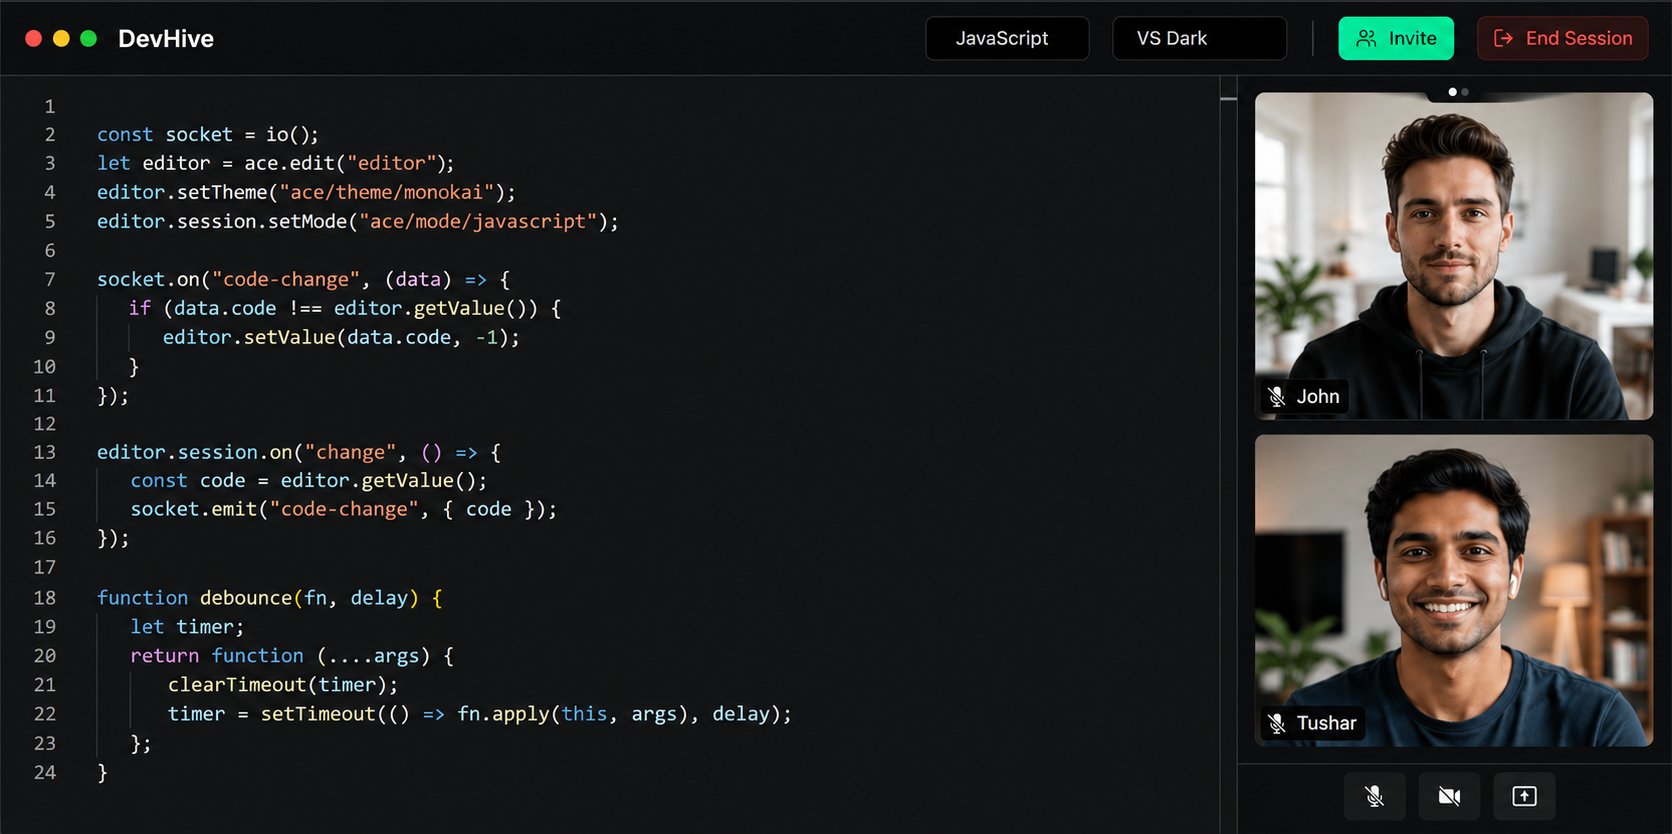
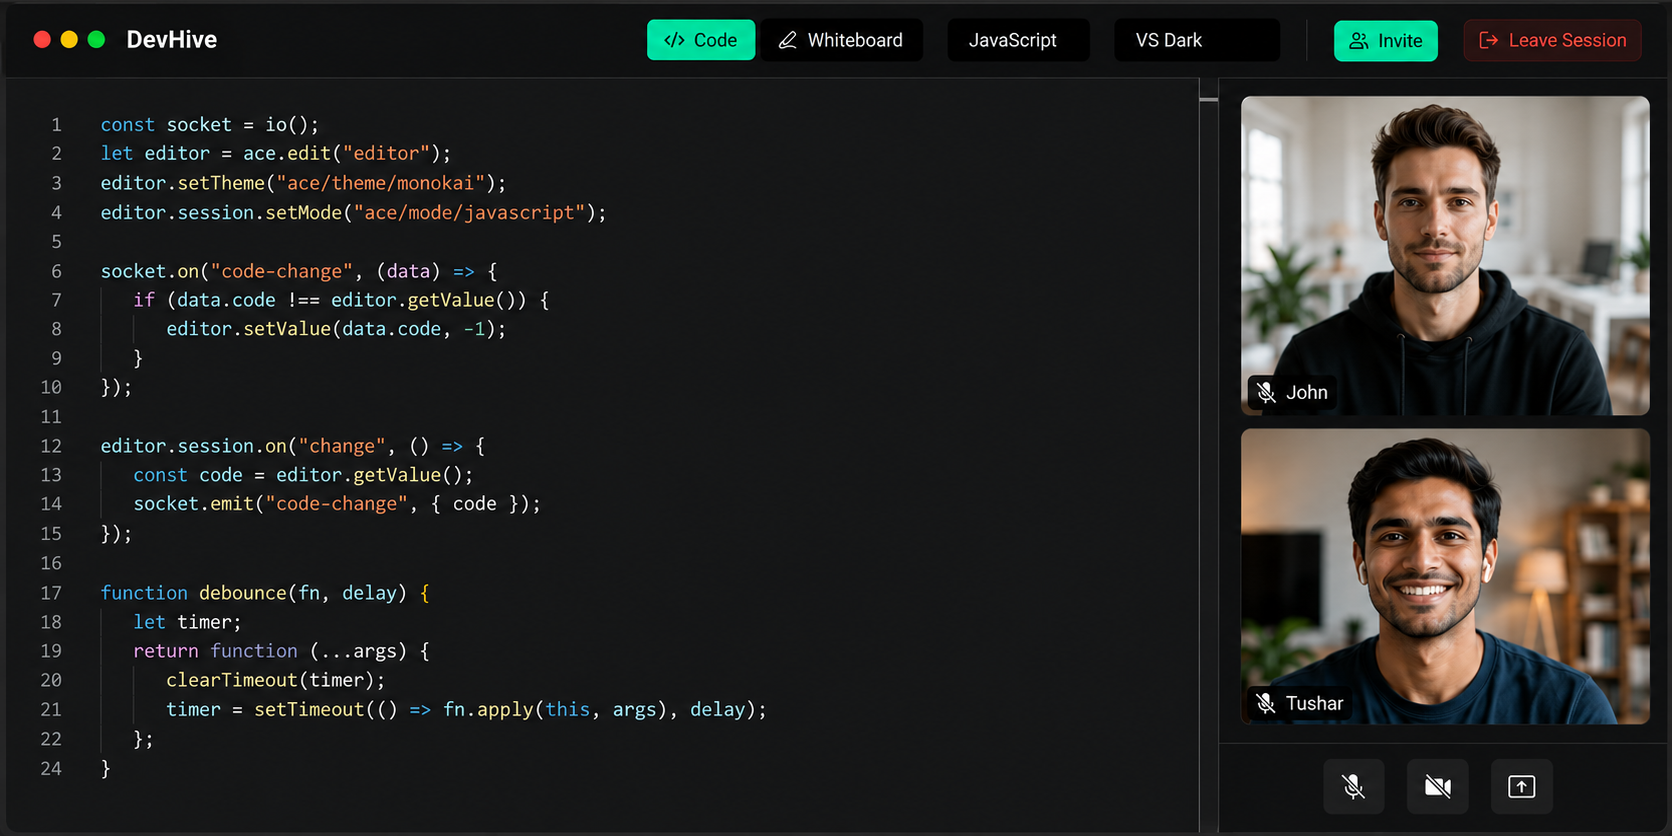
docs : update the landing page description

diff --git a/Client/src/page/room-page.jsx b/Client/src/page/room-page.jsx
@@ -25,10 +25,14 @@ const RoomPage = () => {
     const [inCall, setInCall] = useState(false);
     const justStartedVc = useRef(false);
     const [viewMode, setViewMode] = useState("code"); // "code" | "whiteboard"
-const [whiteboardElements, setWhiteboardElements] = useState([]);
-const excalidrawAPIRef = useRef(null);
-const isRemoteWhiteboardUpdate = useRef(false);
-const wbDebounceRef = useRef(null);
+    const [whiteboardElements, setWhiteboardElements] = useState([]);
+    const excalidrawAPIRef = useRef(null);
+    const wbDebounceRef = useRef(null);
+    // tracks the exact JSON string of the last whiteboard payload WE sent —
+    // lets us recognize the server broadcasting our own update back to us
+    // (STOMP's simple broker doesn't exclude the sender) and drop it before
+    // it ever reaches state, instead of relying on timing-based flags.
+    const lastSentWhiteboardRef = useRef("");
 
 
     const {roomId } = useParams()
@@ -98,9 +102,13 @@ const wbDebounceRef = useRef(null);
         setCode(data.code);
     }
     else if (data.message === "WB_UPDATE") {
-  isRemoteWhiteboardUpdate.current = true;
-  setWhiteboardElements(JSON.parse(data.elements));
-}
+      // if this is exactly what we just sent, it's our own broadcast
+      // echoing back — ignore it, don't touch state, don't re-apply it
+      if (data.elements === lastSentWhiteboardRef.current) {
+        return;
+      }
+      setWhiteboardElements(JSON.parse(data.elements));
+    }
     else if(data.message =="LANG_UPDATE"){
       
       isRemoteLanguageUpdate.current=true;
@@ -139,12 +147,14 @@ const wbDebounceRef = useRef(null);
   };
 
   const handleWhiteboardChange = (newElements) => {
-  setWhiteboardElements(newElements);
-  clearTimeout(wbDebounceRef.current);
-  wbDebounceRef.current = setTimeout(() => {
-    sendWhiteboardUpdate(roomId, newElements);
-  }, 300);
-};
+    setWhiteboardElements(newElements);
+    clearTimeout(wbDebounceRef.current);
+    wbDebounceRef.current = setTimeout(() => {
+      const serialized = JSON.stringify(newElements);
+      lastSentWhiteboardRef.current = serialized; // record before sending
+      sendWhiteboardUpdate(roomId, newElements);
+    }, 300);
+  };
 
   const handlelanguageChange = (newLang) => {
     if (isRemoteLanguageUpdate.current) {

diff --git a/Client/src/page/home.jsx b/Client/src/page/home.jsx
@@ -56,6 +56,14 @@ const bentoFeatures = [
     title: "Multi-Language",
     body: "Switch between JavaScript, Python, C++, and more instantly with full syntax highlighting.",
   },
+  {
+    span: "md:col-span-4",
+    bg: "bg-surface-container-high",
+    icon: Pen,
+    iconColor: "text-primary-container",
+    title: "Integrated Synced Whiteboard",
+    body: "A shared whiteboard built into every room, synced in real time alongside the editor. Sketch out a system design, explain how a service talks to a database, teach a DSA concept with diagrams, or walk your interviewer through the flow of your project — all without ever leaving the call.",
+  },
 ];
 
 const pipelineItems = [
@@ -65,13 +73,6 @@ const pipelineItems = [
     bg: "bg-primary-container/10",
     title: "Real Code Execution",
     body: "Run your code directly in the hive. No more read-only interviews, see if the solution actually passes.",
-  },
- {
-    icon: Pen,
-    color: "text-secondary",
-    bg: "bg-secondary/10",
-    title: "Whiteboard for System Design",
-    body: "A shared Excalidraw-style canvas alongside the editor, so system-design rounds aren't stuck in code — sketch architecture, draw boxes and arrows, live with your interviewer.",
   },
 ];
 
@@ -154,8 +155,7 @@ export default function Home() {
               className="text-xl md:text-2xl text-on-surface-variant font-body max-w-2xl mx-auto mb-12 leading-relaxed"
             >
               
-             DevHive is a live collaborative code editor with built-in video calling — run mock interviews,
-            pair-program with your team, or grind DSA with friends, all face-to-face in one room.
+            DevHive is a live collaborative code editor with built-in video calling and a synced whiteboard — run mock interviews, pair-program with your team, sketch out a system design, or grind DSA with friends, all face-to-face in one room.
             </motion.p>
             <motion.div
               custom={3}
